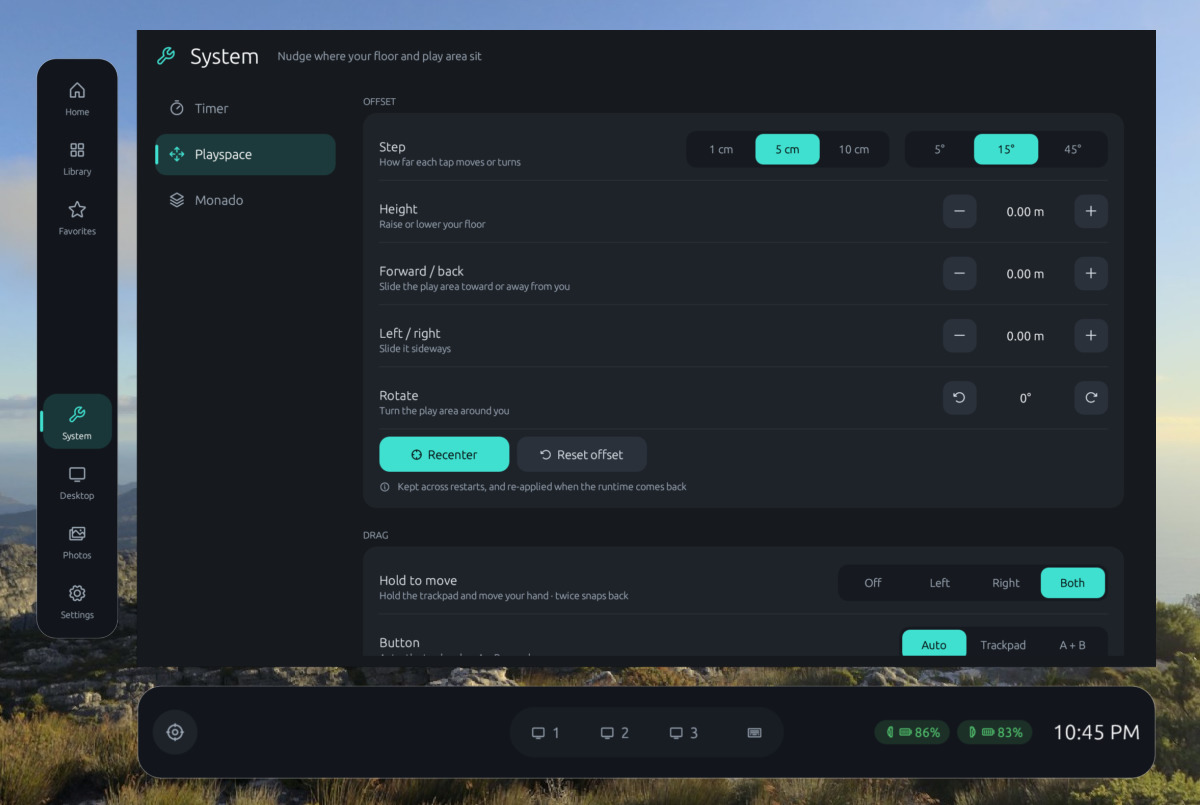
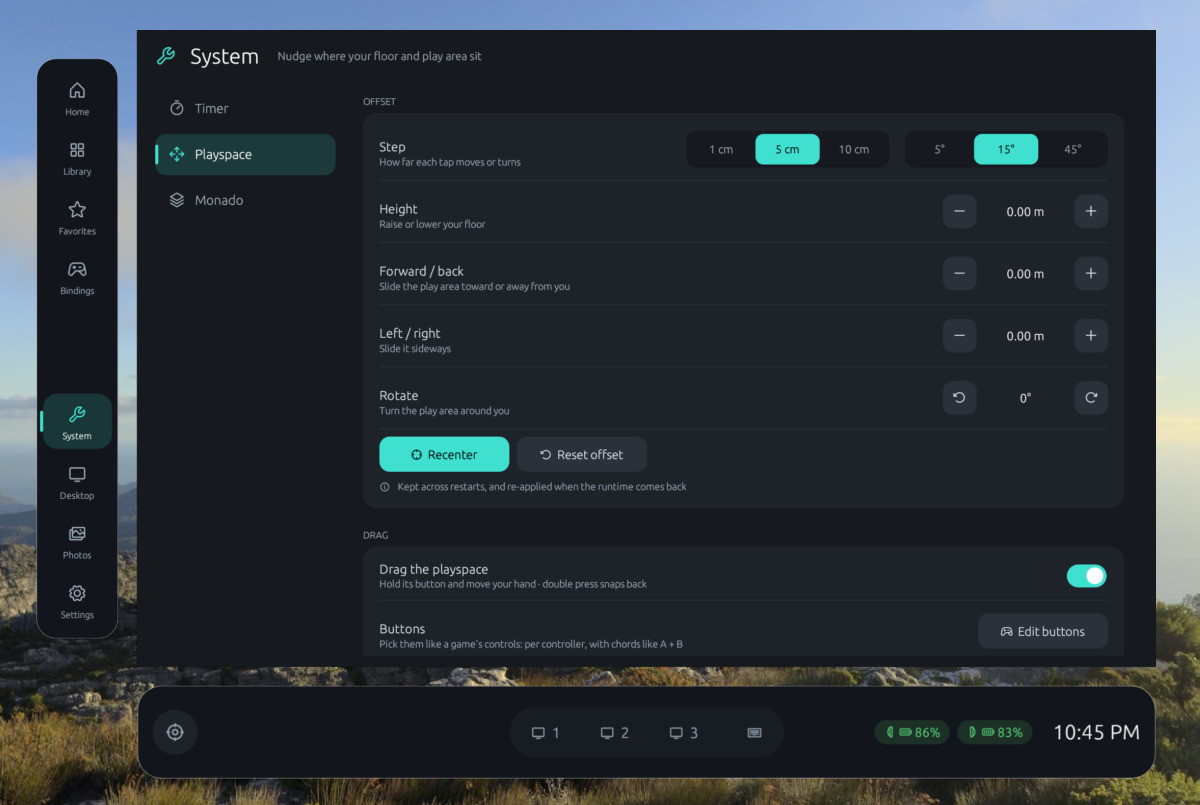
docs: README shots for the binding editor and 1.8's playspace page
The binding editor takes the screenshots-and-photos spot: VRChat's own
Index binding in the headset, the pointer on the left trigger with its
line to the drawing. The playspace shot is redone for 1.8 (the drag's
switch and its buttons in Bindings). The preview's README mode renders
the editor too, last, since its pointer's shot moves the shared clock on.

diff --git a/crates/overlay/src/preview.rs b/crates/overlay/src/preview.rs
@@ -266,9 +266,10 @@ pub fn run(dir: &Path) -> Result<()> {
 
 /// `MONADECK_PREVIEW_ONLY=readme`: the README's shots from real renders, with
 /// a headset and two controllers and nothing running: the watch, the Home
-/// dashboard with your Steam library's art, the playspace tools, and the
-/// layers of the screenshots shot (background, photo window, watch with a
-/// new-screenshot card) for compositing.
+/// dashboard with your Steam library's art, the playspace tools, the binding
+/// editor on VRChat's Index binding (from your library), and the layers of the
+/// screenshots shot (background, photo window, watch with a new-screenshot
+/// card) for compositing.
 fn readme(ctx: &egui::Context, textures: &mut HashMap<egui::TextureId, Tex>, dir: &Path) -> Result<()> {
     use crate::ui::{Nav, SystemTab};
     let games = readme_games(ctx);
@@ -376,6 +377,23 @@ fn readme(ctx: &egui::Context, textures: &mut HashMap<egui::TextureId, Tex>, dir
     let mut st = state(Nav::Home);
     st.wrist_shot = Some(crate::ui::WristShot { thumb: Some(shot_tex.clone()), qr: None, when: "2026/09/24 22:49:51".into(), idx: 0, total: 1 });
     save(&shoot_over(ctx, textures, WATCH_PX, 6, true, |ctx| crate::ui::build_watch(ctx, &mut st)), "readme-layer-watch.png")?;
+
+    // The binding editor on VRChat's own Index binding (a personal one of yours
+    // left out), the pointer on the left trigger: the line to the drawing.
+    // Last, and its rail first: the pointer's shot moves the shared clock on.
+    let mut st = state(Nav::Bindings);
+    let b_rail = shoot_over(ctx, textures, RAIL_PX, 6, true, |ctx| crate::ui::build_rail(ctx, &mut st));
+    let mut st = state(Nav::Bindings);
+    {
+        use monadeck_core::bindings as core;
+        let games = core::bindable_games();
+        let i = games.iter().position(|g| g.name.to_lowercase().contains("vrchat")).ok_or_else(|| anyhow::anyhow!("VRChat's bindings aren't in your library"))?;
+        let opened = core::open(&games[i].actions_path, &[], "knuckles").map_err(anyhow::Error::msg)?;
+        st.binds.show(games.clone(), crate::bindings::Target::Game(i), core::controller("knuckles").expect("Index controllers"), opened);
+    }
+    let b_main = shoot_with(ctx, textures, MAIN_PX, 12, Some(egui::pos2(150.0, 342.0)), |ctx| crate::ui::build_main(ctx, &mut st));
+    save(&b_main, "readme-bindings.png")?;
+    jpg(&readme_crop(&in_vr(&composite(&b_rail, &b_main, &bottom, None))), "readme-bindings-vr.jpg")?;
     Ok(())
 }
 

diff --git a/README.md b/README.md
@@ -13,7 +13,7 @@ Built for a Monado + xrizer workflow.
 <td align="center" valign="top"><img src="screenshots/watch.jpg" width="260" alt="Wrist watch"><br><sub>Wrist watch</sub></td>
 </tr>
 <tr>
-<td align="center" valign="top"><img src="screenshots/photos.jpg" width="260" alt="Screenshots in the headset"><br><sub>Screenshots & photos</sub></td>
+<td align="center" valign="top"><img src="screenshots/bindings.jpg" width="260" alt="Controller binding editor in the headset"><br><sub>Controller bindings</sub></td>
 <td align="center" valign="top"><img src="screenshots/playspace.jpg" width="260" alt="Playspace tools"><br><sub>Playspace tools</sub></td>
 <td align="center" valign="top"><img src="screenshots/desktop.jpg" width="260" alt="Desktop control panel"><br><sub>Desktop control panel</sub></td>
 </tr>
